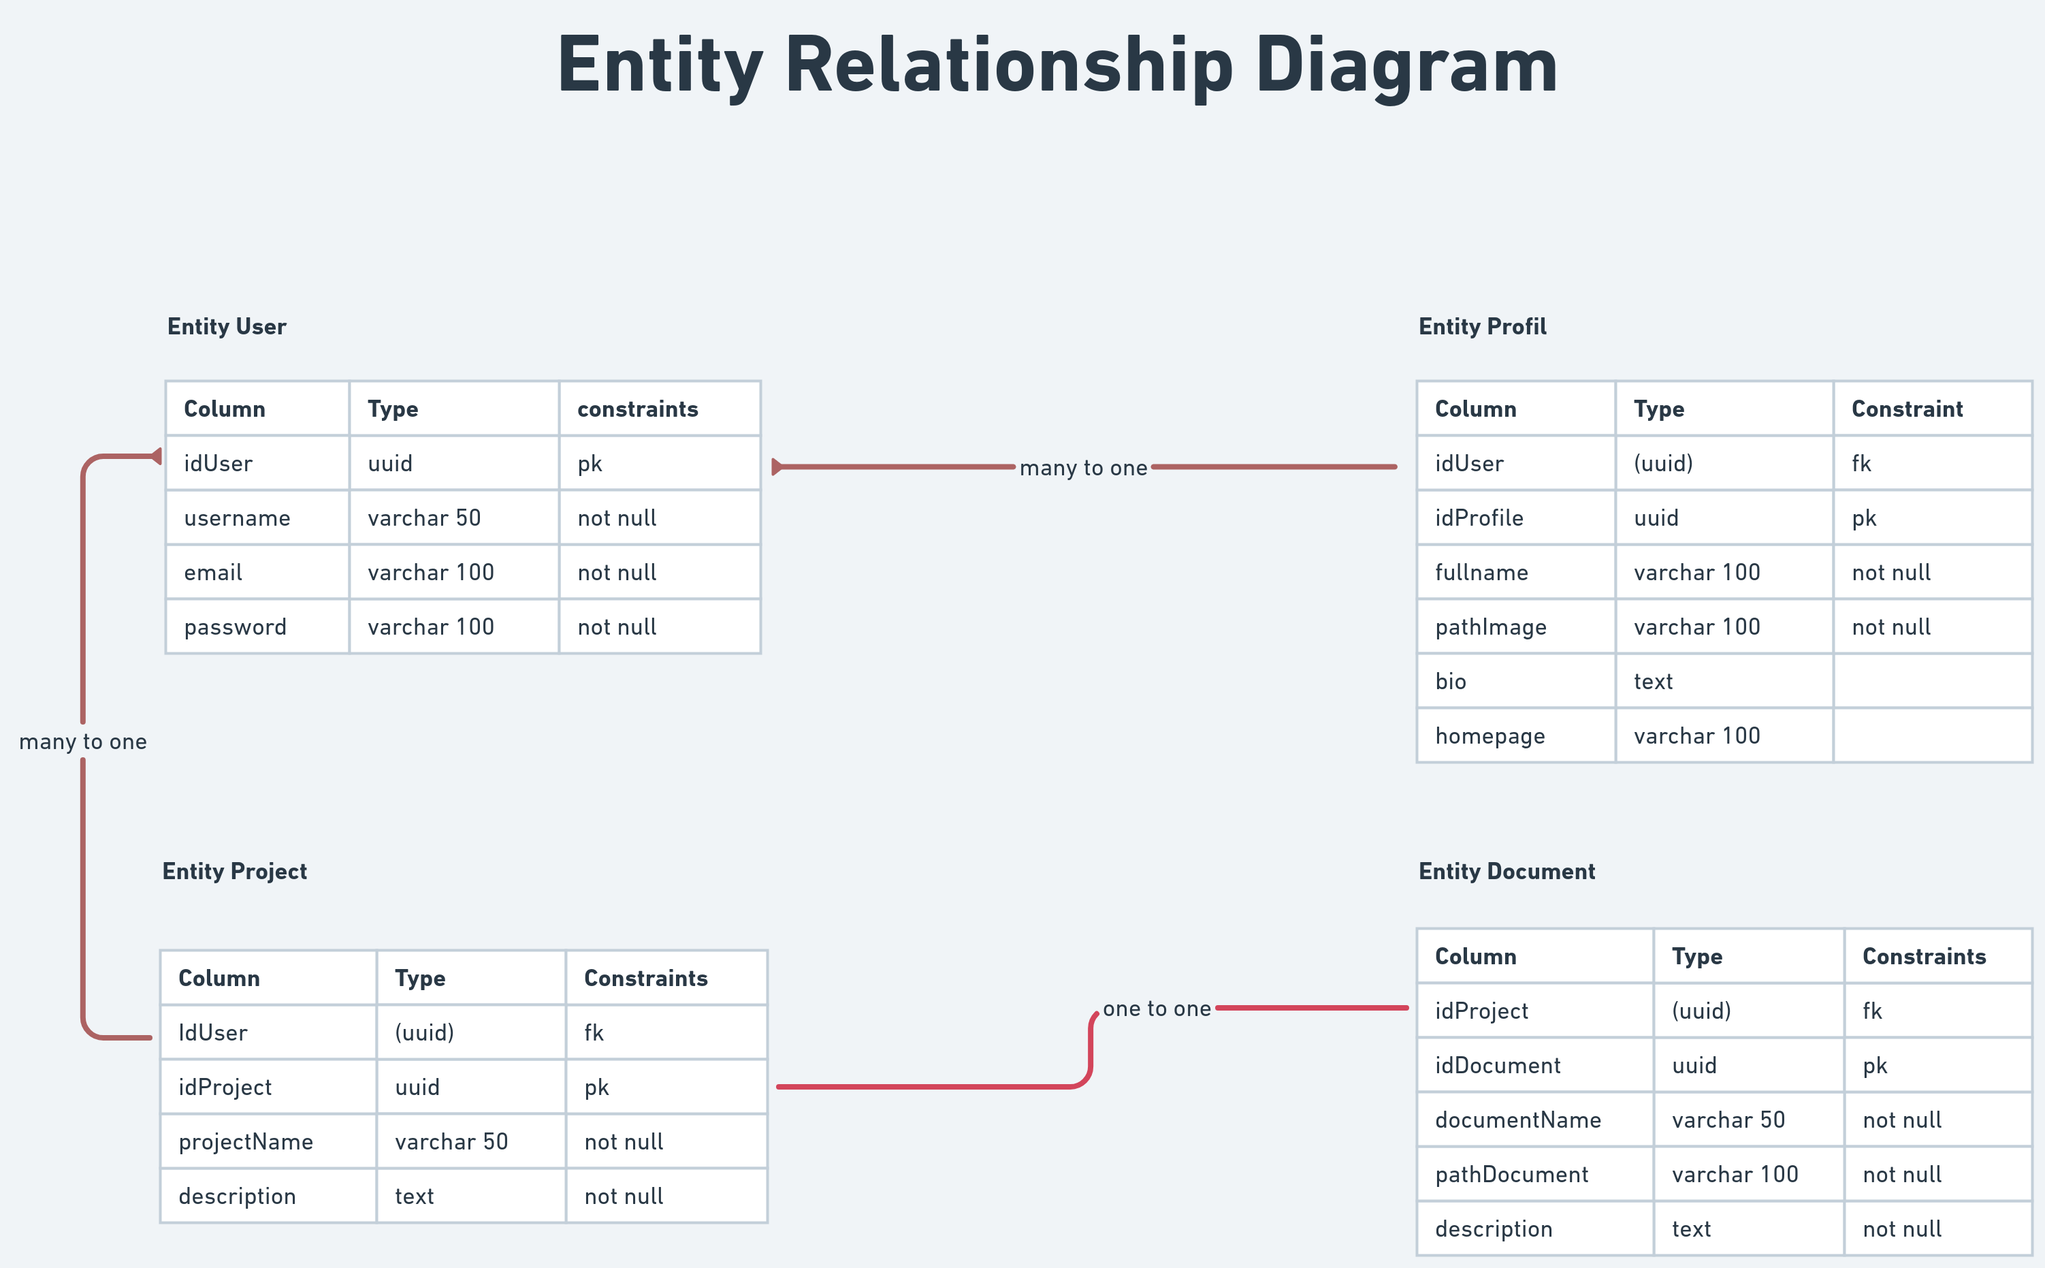
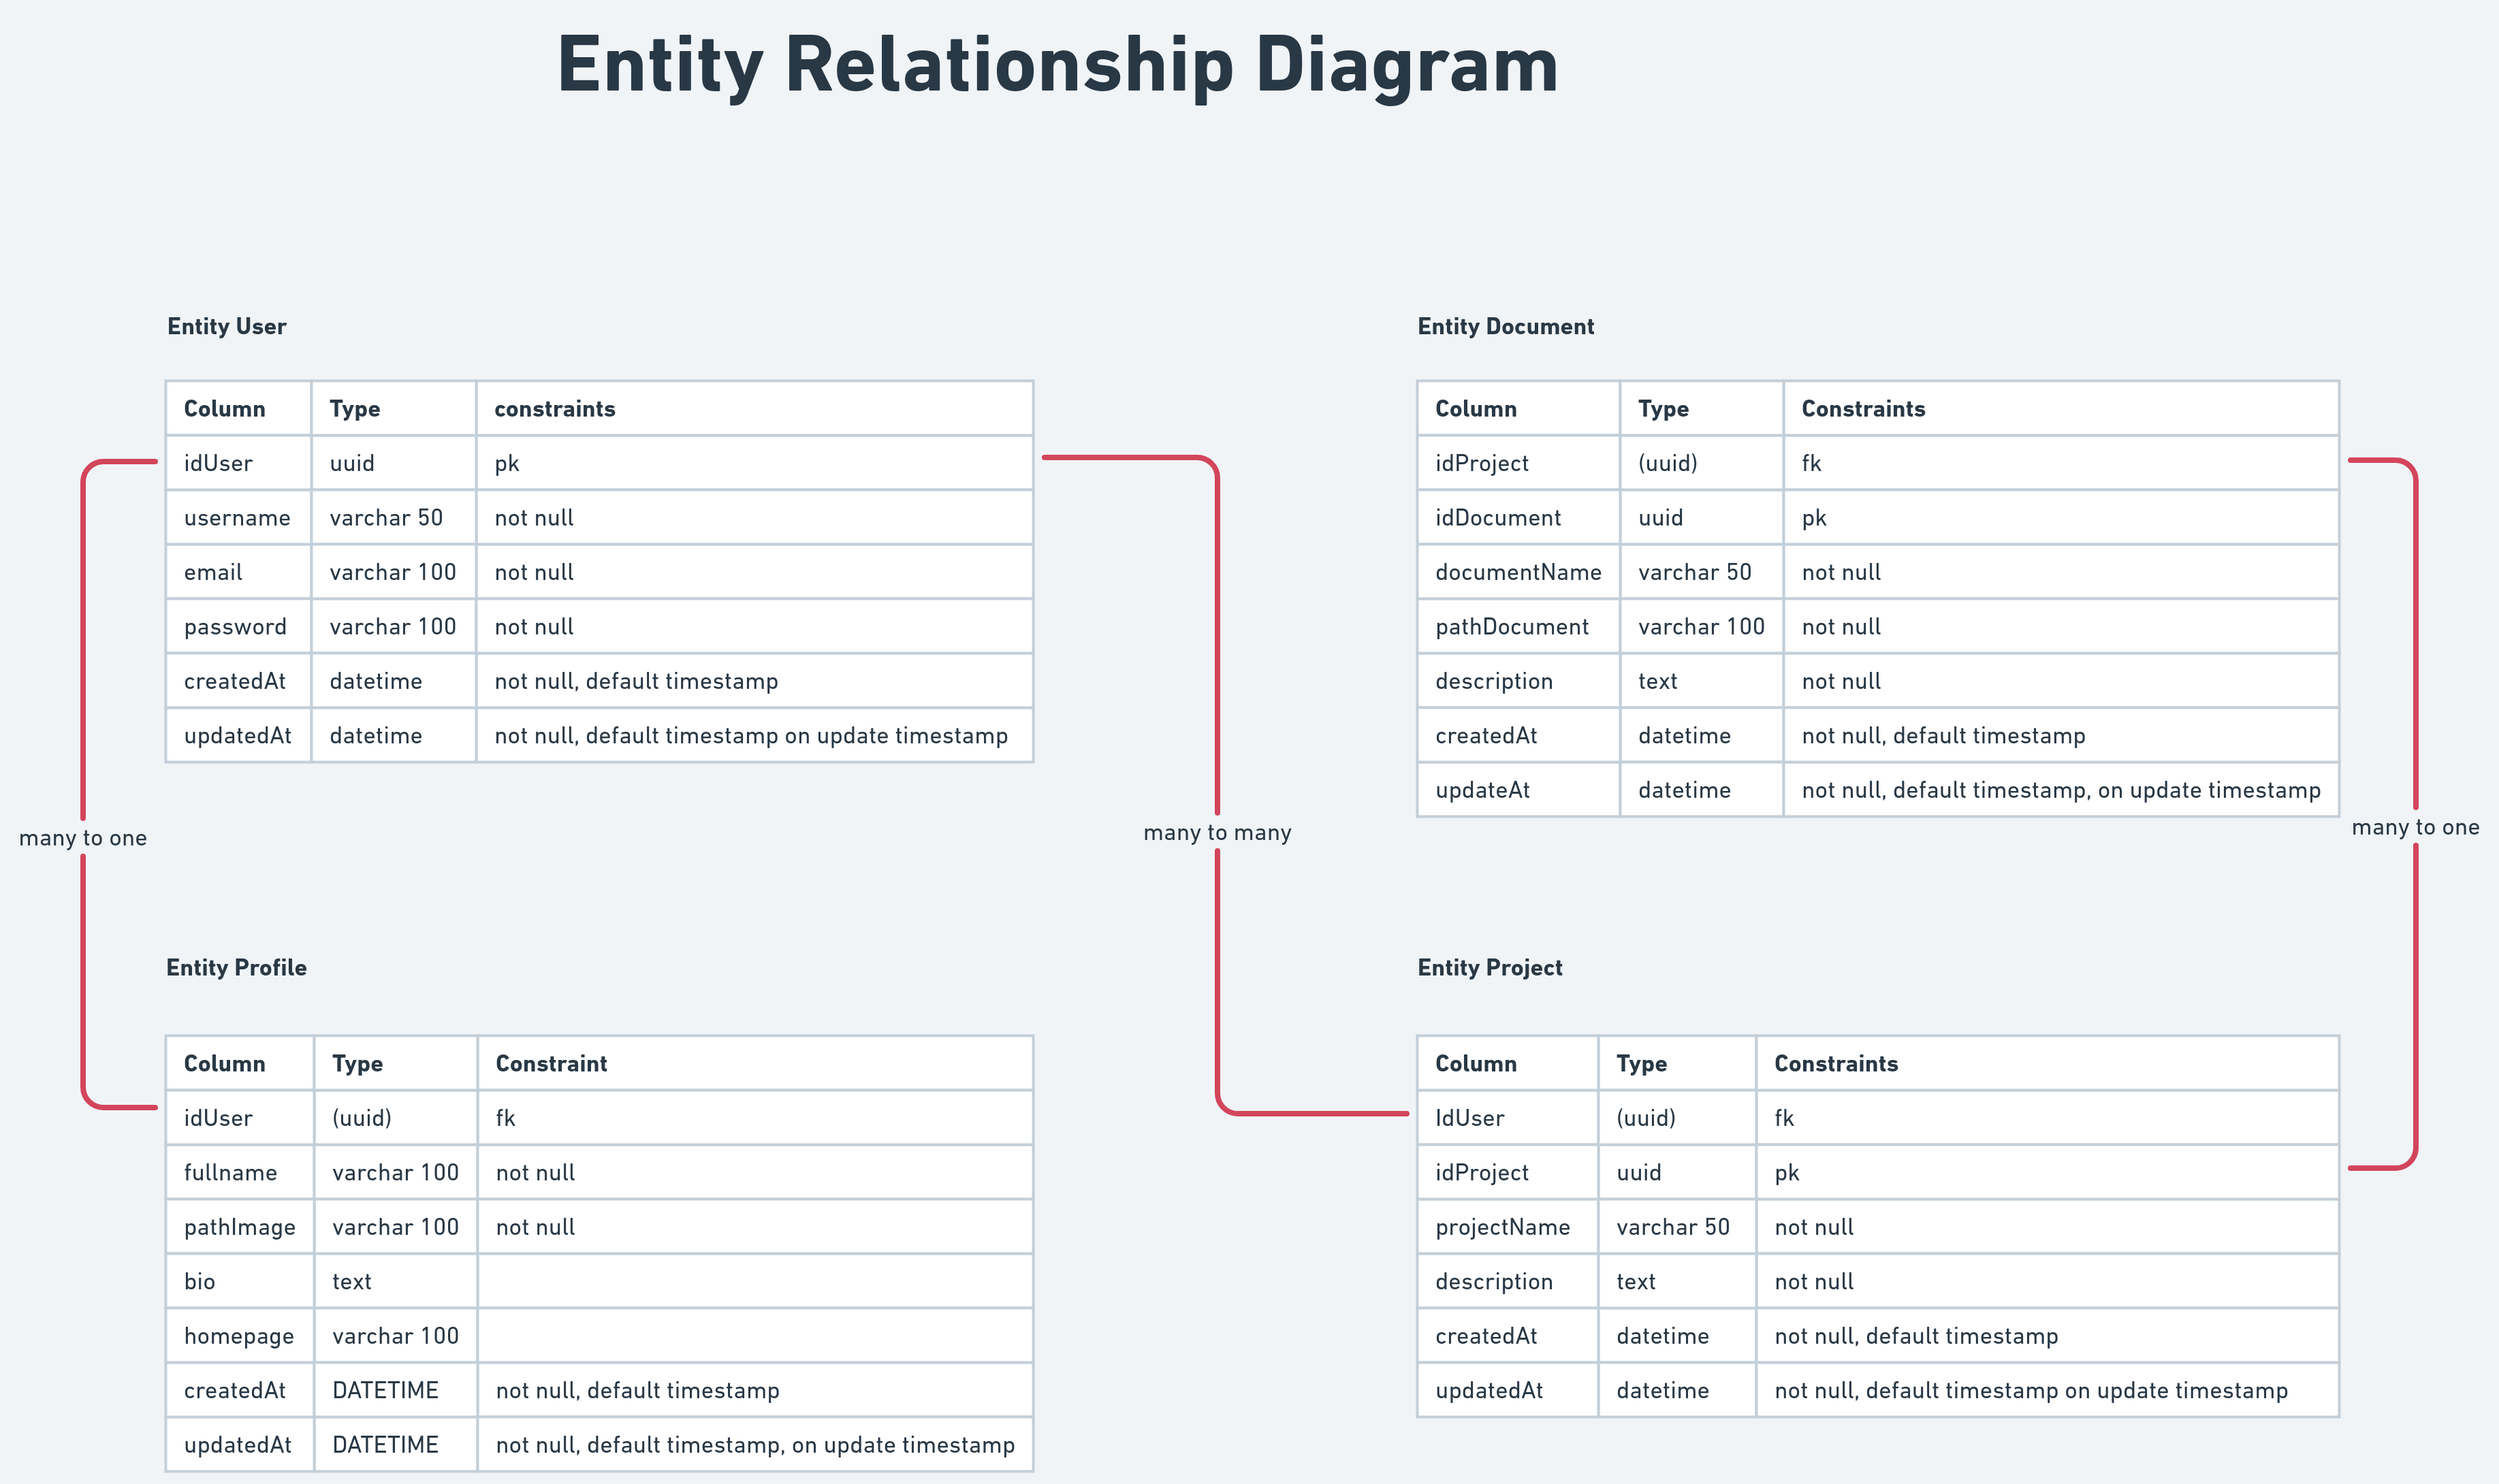
Buat ERD dan buat entity

diff --git a/src/app.module.ts b/src/app.module.ts
@@ -5,6 +5,9 @@ import { TypeOrmModule } from '@nestjs/typeorm';
 import { join } from 'path';
 import { AppResolver } from './app.resolver';
 import { UsersModule } from './users/users.module';
+import { ProfileModule } from './profile/profile.module';
+import { ProjectModule } from './project/project.module';
+import { DocumentModule } from './document/document.module';
 
 @Module({
   imports: [
@@ -19,14 +22,17 @@ import { UsersModule } from './users/users.module';
     TypeOrmModule.forRoot({
       type: 'postgres',
       host: 'localhost',
-      port: 5432,
-      username: 'eng1n3',
-      password: 'R4nsom_w4r3',
-      database: 'eng1n3',
+      port: 5433,
+      username: 'postgres',
+      password: 'mysecretpassword',
+      database: 'postgres',
       entities: [__dirname + '/**/*.entity{.js,.ts}'],
       synchronize: true,
     }),
     UsersModule,
+    ProfileModule,
+    ProjectModule,
+    DocumentModule,
   ],
   controllers: [],
   providers: [AppResolver],

diff --git a/src/document/entities/document.entity.ts b/src/document/entities/document.entity.ts
@@ -1,0 +1,40 @@
+import { Project } from 'src/project/entities/project.entity';
+import {
+  Column,
+  CreateDateColumn,
+  Entity,
+  JoinColumn,
+  ManyToMany,
+  PrimaryColumn,
+  PrimaryGeneratedColumn,
+  UpdateDateColumn,
+} from 'typeorm';
+
+@Entity()
+export class Document {
+  @PrimaryColumn()
+  @ManyToMany((type) => Project, (project) => project.idProject, {
+    nullable: false,
+    cascade: true,
+  })
+  @JoinColumn({ name: 'idProject' })
+  idUser: string;
+
+  @PrimaryGeneratedColumn('uuid')
+  idDocument: string;
+
+  @Column()
+  documentName: string;
+
+  @Column()
+  pathDocument: string;
+
+  @Column({ type: 'text' })
+  description: string;
+
+  @CreateDateColumn()
+  createdAt: Date;
+
+  @UpdateDateColumn()
+  updatedAt: Date;
+}

diff --git a/src/profile/entities/profile.entity.ts b/src/profile/entities/profile.entity.ts
@@ -1,0 +1,39 @@
+import { User } from 'src/users/entities/user.entity';
+import {
+  Column,
+  CreateDateColumn,
+  Entity,
+  JoinColumn,
+  ManyToMany,
+  PrimaryColumn,
+  UpdateDateColumn,
+} from 'typeorm';
+
+@Entity()
+export class Profile {
+  @PrimaryColumn()
+  @ManyToMany((type) => User, (user) => user.idUser, {
+    nullable: false,
+    cascade: true,
+  })
+  @JoinColumn({ name: 'idUser' })
+  idUser: string;
+
+  @Column()
+  fullname: string;
+
+  @Column()
+  pathImage: string;
+
+  @Column({ type: 'text', nullable: true })
+  bio?: string;
+
+  @Column({ nullable: true })
+  homepage?: string;
+
+  @CreateDateColumn()
+  createdAt: Date;
+
+  @UpdateDateColumn()
+  updatedAt: Date;
+}

diff --git a/src/project/entities/project.entity.ts b/src/project/entities/project.entity.ts
@@ -1,0 +1,37 @@
+import { User } from 'src/users/entities/user.entity';
+import {
+  Column,
+  CreateDateColumn,
+  Entity,
+  JoinColumn,
+  ManyToMany,
+  PrimaryColumn,
+  PrimaryGeneratedColumn,
+  UpdateDateColumn,
+} from 'typeorm';
+
+@Entity()
+export class Project {
+  @PrimaryColumn()
+  @ManyToMany((type) => User, (user) => user.idUser, {
+    nullable: false,
+    cascade: true,
+  })
+  @JoinColumn({ name: 'idUser' })
+  idUser: string;
+
+  @PrimaryGeneratedColumn('uuid')
+  idProject: string;
+
+  @Column()
+  projectName: string;
+
+  @Column({ type: 'text' })
+  description: string;
+
+  @CreateDateColumn()
+  createdAt: Date;
+
+  @UpdateDateColumn()
+  updatedAt: Date;
+}

diff --git a/src/document/document.resolver.spec.ts b/src/document/document.resolver.spec.ts
@@ -1,0 +1,18 @@
+import { Test, TestingModule } from '@nestjs/testing';
+import { DocumentResolver } from './document.resolver';
+
+describe('DocumentResolver', () => {
+  let resolver: DocumentResolver;
+
+  beforeEach(async () => {
+    const module: TestingModule = await Test.createTestingModule({
+      providers: [DocumentResolver],
+    }).compile();
+
+    resolver = module.get<DocumentResolver>(DocumentResolver);
+  });
+
+  it('should be defined', () => {
+    expect(resolver).toBeDefined();
+  });
+});

diff --git a/src/profile/profile.resolver.spec.ts b/src/profile/profile.resolver.spec.ts
@@ -1,0 +1,18 @@
+import { Test, TestingModule } from '@nestjs/testing';
+import { ProfileResolver } from './profile.resolver';
+
+describe('ProfileResolver', () => {
+  let resolver: ProfileResolver;
+
+  beforeEach(async () => {
+    const module: TestingModule = await Test.createTestingModule({
+      providers: [ProfileResolver],
+    }).compile();
+
+    resolver = module.get<ProfileResolver>(ProfileResolver);
+  });
+
+  it('should be defined', () => {
+    expect(resolver).toBeDefined();
+  });
+});

diff --git a/src/project/project.resolver.spec.ts b/src/project/project.resolver.spec.ts
@@ -1,0 +1,18 @@
+import { Test, TestingModule } from '@nestjs/testing';
+import { ProjectResolver } from './project.resolver';
+
+describe('ProjectResolver', () => {
+  let resolver: ProjectResolver;
+
+  beforeEach(async () => {
+    const module: TestingModule = await Test.createTestingModule({
+      providers: [ProjectResolver],
+    }).compile();
+
+    resolver = module.get<ProjectResolver>(ProjectResolver);
+  });
+
+  it('should be defined', () => {
+    expect(resolver).toBeDefined();
+  });
+});

diff --git a/src/document/document.service.spec.ts b/src/document/document.service.spec.ts
@@ -1,0 +1,18 @@
+import { Test, TestingModule } from '@nestjs/testing';
+import { DocumentService } from './document.service';
+
+describe('DocumentService', () => {
+  let service: DocumentService;
+
+  beforeEach(async () => {
+    const module: TestingModule = await Test.createTestingModule({
+      providers: [DocumentService],
+    }).compile();
+
+    service = module.get<DocumentService>(DocumentService);
+  });
+
+  it('should be defined', () => {
+    expect(service).toBeDefined();
+  });
+});

diff --git a/src/profile/profile.service.spec.ts b/src/profile/profile.service.spec.ts
@@ -1,0 +1,18 @@
+import { Test, TestingModule } from '@nestjs/testing';
+import { ProfileService } from './profile.service';
+
+describe('ProfileService', () => {
+  let service: ProfileService;
+
+  beforeEach(async () => {
+    const module: TestingModule = await Test.createTestingModule({
+      providers: [ProfileService],
+    }).compile();
+
+    service = module.get<ProfileService>(ProfileService);
+  });
+
+  it('should be defined', () => {
+    expect(service).toBeDefined();
+  });
+});

diff --git a/src/project/project.service.spec.ts b/src/project/project.service.spec.ts
@@ -1,0 +1,18 @@
+import { Test, TestingModule } from '@nestjs/testing';
+import { ProjectService } from './project.service';
+
+describe('ProjectService', () => {
+  let service: ProjectService;
+
+  beforeEach(async () => {
+    const module: TestingModule = await Test.createTestingModule({
+      providers: [ProjectService],
+    }).compile();
+
+    service = module.get<ProjectService>(ProjectService);
+  });
+
+  it('should be defined', () => {
+    expect(service).toBeDefined();
+  });
+});

diff --git a/src/users/entities/user.entity.ts b/src/users/entities/user.entity.ts
@@ -1,0 +1,28 @@
+import {
+  Column,
+  CreateDateColumn,
+  Entity,
+  PrimaryGeneratedColumn,
+  UpdateDateColumn,
+} from 'typeorm';
+
+@Entity()
+export class User {
+  @PrimaryGeneratedColumn('uuid')
+  idUser: string;
+
+  @Column()
+  username: string;
+
+  @Column()
+  email: string;
+
+  @Column()
+  password: string;
+
+  @CreateDateColumn()
+  createdAt: Date;
+
+  @UpdateDateColumn()
+  updatedAt: Date;
+}

diff --git a/src/document/document.module.ts b/src/document/document.module.ts
@@ -1,0 +1,8 @@
+import { Module } from '@nestjs/common';
+import { DocumentService } from './document.service';
+import { DocumentResolver } from './document.resolver';
+
+@Module({
+  providers: [DocumentService, DocumentResolver],
+})
+export class DocumentModule {}
